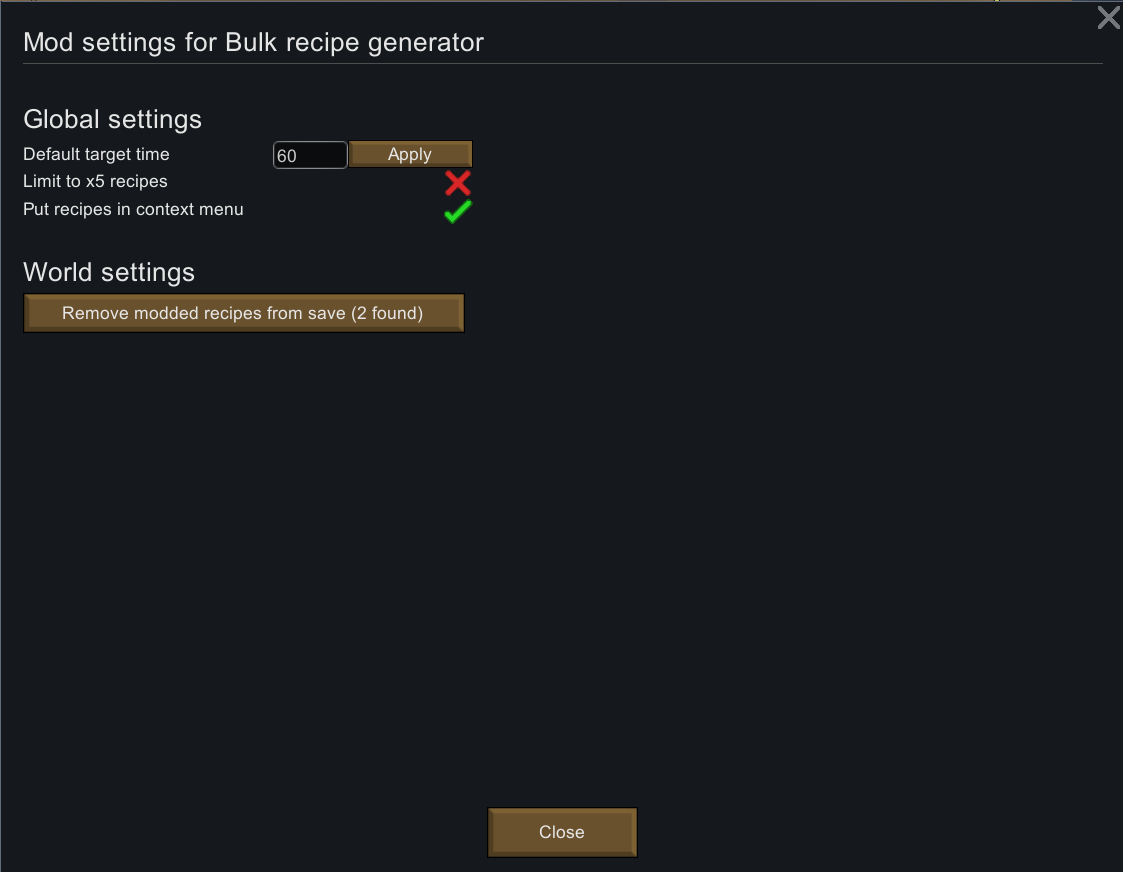
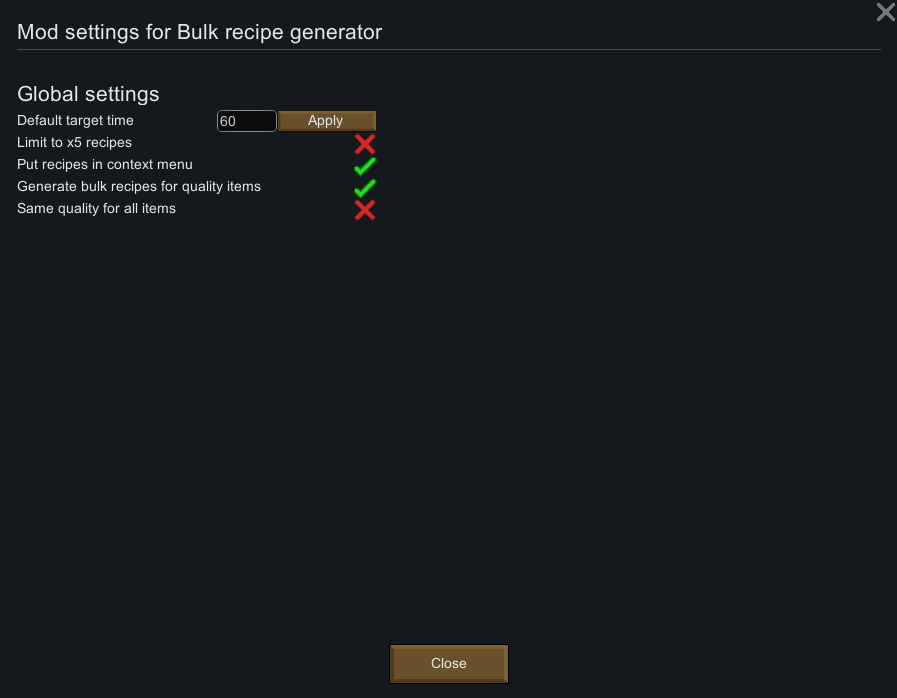
Added another setting to skip making bulk recipes for quality items

diff --git a/Source/Ad2mod/Ad2Mod.cs b/Source/Ad2mod/Ad2Mod.cs
@@ -40,19 +40,27 @@ namespace Ad2mod
                 "Has no effect if 'Put recipes in context menu' is checked");
 
             y += LH;
-            var r1 = new Rect(x, y, 360, LH);
-            Widgets.CheckboxLabeled(r1, "Limit to x5 recipes", ref settings.limitToX5);
-            TooltipHandler.TipRegion(r1, "Add only x5 recipes");
+            var rect = new Rect(x, y, 360, LH);
+            Widgets.CheckboxLabeled(rect, "Limit to x5 recipes", ref settings.limitToX5);
+            TooltipHandler.TipRegion(rect, "Add only x5 recipes");
             y += LH;
-            var r2 = new Rect(x, y, 360, LH);
-            Widgets.CheckboxLabeled(r2, "Put recipes in context menu", ref settings.useRightClickMenu);
-            TooltipHandler.TipRegion(r2,
+            rect = new Rect(x, y, 360, LH);
+            Widgets.CheckboxLabeled(rect, "Put recipes in context menu", ref settings.useRightClickMenu);
+            TooltipHandler.TipRegion(rect,
                 "Put recipes to context menu of source recipe instead of adding after it in the same list.");
             y += LH;
-            var r3 = new Rect(x, y, 360, LH);
-            Widgets.CheckboxLabeled(r3, "Same quality for all items", ref settings.useSameQualityForAll);
-            TooltipHandler.TipRegion(r3,
-                "Recipes that make items that have quality will use the same quality for all created items. Inspiration will apply to all items created.");
+            rect = new Rect(x, y, 360, LH);
+            Widgets.CheckboxLabeled(rect, "Generate bulk recipes for quality items", ref settings.makeBulkForQuality);
+            TooltipHandler.TipRegion(rect,
+                "Will create recipes for items that have quality. How these are handled can be further defined below.");
+            if (settings.makeBulkForQuality)
+            {
+                y += LH;
+                rect = new Rect(x, y, 360, LH);
+                Widgets.CheckboxLabeled(rect, "Same quality for all items", ref settings.useSameQualityForAll);
+                TooltipHandler.TipRegion(rect,
+                    "Recipes that make items that have quality will use the same quality for all created items. Inspiration will apply to all items created.");
+            }
 
             y += (2 * LH) + 2;
 

diff --git a/Source/Ad2mod/Ad2Settings.cs b/Source/Ad2mod/Ad2Settings.cs
@@ -6,6 +6,7 @@ namespace Ad2mod
     {
         public int defaultThreshold = 60;
         public bool limitToX5;
+        public bool makeBulkForQuality = true;
         public bool useRightClickMenu = true;
         public bool useSameQualityForAll;
 
@@ -14,6 +15,7 @@ namespace Ad2mod
             Scribe_Values.Look(ref defaultThreshold, "defaultThreshold", 60);
             Scribe_Values.Look(ref limitToX5, "limitToX5");
             Scribe_Values.Look(ref useRightClickMenu, "useRightClickMenu", true);
+            Scribe_Values.Look(ref makeBulkForQuality, "makeBulkForQuality", true);
             Scribe_Values.Look(ref useSameQualityForAll, "useSameQualityForAll");
             base.ExposeData();
         }

diff --git a/Source/Ad2mod/Ad2.cs b/Source/Ad2mod/Ad2.cs
@@ -237,6 +237,11 @@ namespace Ad2mod
                     continue;
                 }
 
+                if (!Ad2Mod.settings.makeBulkForQuality && recipe.products[0].thingDef.HasComp(typeof(CompQuality)))
+                {
+                    continue;
+                }
+
                 if (recipe.WorkAmountTotal(null) > thresholdLimit * 60)
                 {
                     continue;
